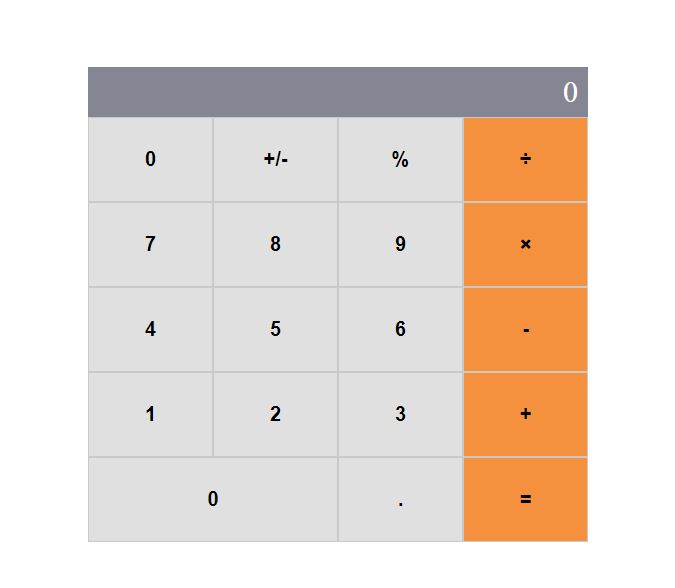
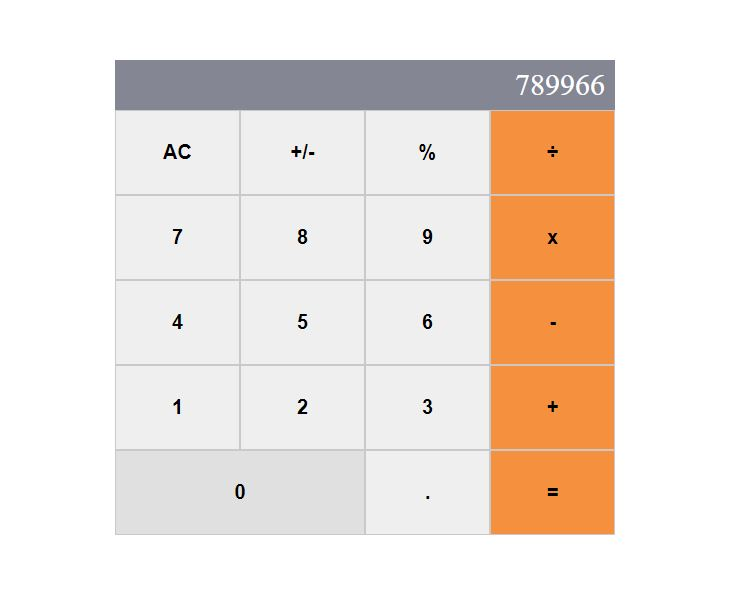
Update README and screenshot

diff --git a/README.md b/README.md
@@ -10,6 +10,8 @@
 - Use React framework.
 
 - Use CSS to create the calculator layout.
+
+Use logic files to make basic operations.
 ## Image Preview
 ![Screenshot Main Page](./src/img/capture.jpg)
 
